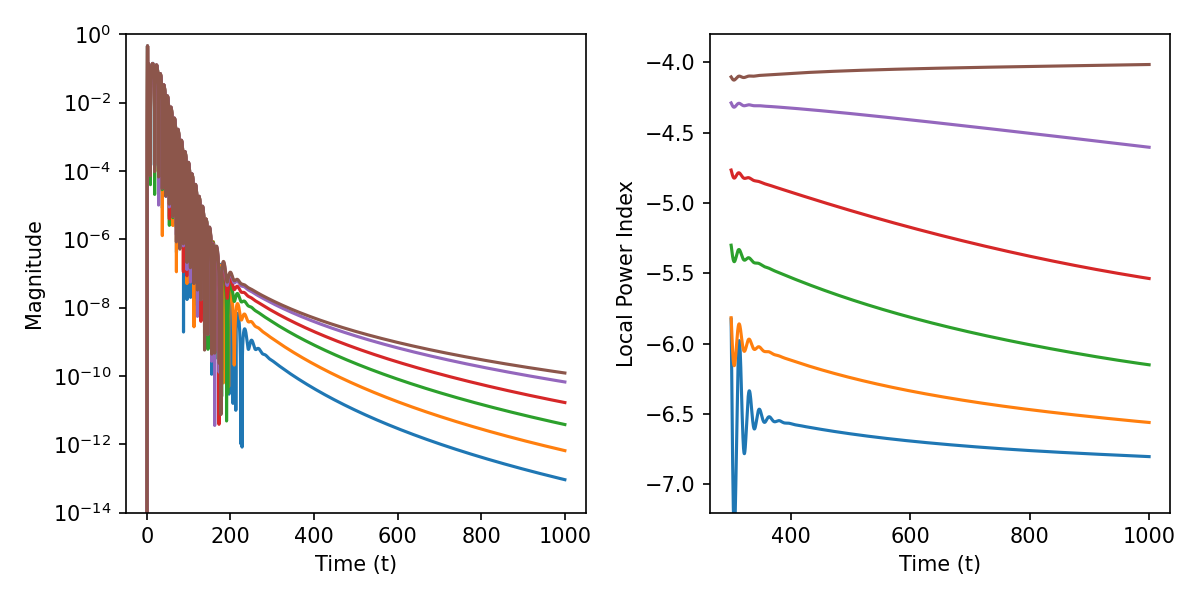
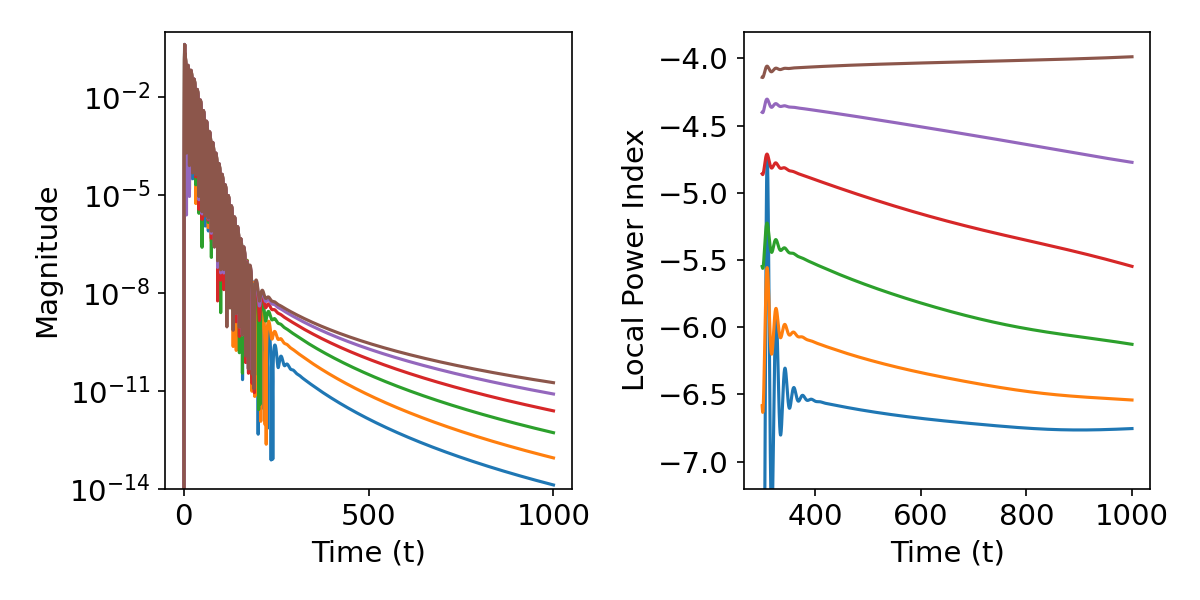
deploy: 43d7a47c012341e49fadcfed908c9c4864ebdf58

Changed region(s): [[0.0, 0.03, 0.9867, 0.96], [0.6167, 0.03, 0.9558, 0.06], [0.0617, 0.03, 0.0925, 0.09]]

diff --git a/post/2026/black-hole-gravitational-waves/index.html b/post/2026/black-hole-gravitational-waves/index.html
@@ -42,51 +42,48 @@ $$ G_\ast\ r^2 \sim (1-\rho^2) \ \mathrm{arctanh}^2\rho \to 0 \quad \text{as} \q
 The vanishing of $G_\ast r^2$ at infinity spoils regularity. Instead, we need an algebraic compactification. For example, something like $r_\ast = \tan\rho$ and $G_\ast=\cos^2\rho$, gives
 $$ G_\ast\ r^2 \sim \cos^2\rho \ \tan^2\rho = \sin^2\rho = 1 \quad \text{as} \quad \rho\to \frac{\pi}{2}. $$</p><p>There&rsquo;s a geometric reason for this restriction in compactification. As $r\to\infty$ the surface area of spheres grow quadratically. Therefore, only an algebraic compactification leads to a regular equation. When we use a compactification that&rsquo;s too fast, the potential blows up. When the compactification behaves algebraically, such as a trigonometric function, the limit is regular.</p><p>Having figured this out, why do we use $r_\ast$ in the first place? I mentioned that it gives us additional resolution near the horizon, but we&rsquo;re compactifying. We can adjust it to get the resolution we need without going through the tortoise coordinate. Let&rsquo;s get rid of it and compute the potential explicitly in terms of a simpler transformation $r(\rho)$. We just need to be careful about the Jacobian:
 $$ G_\ast = \frac{d\rho}{dr_\ast} = \frac{dr}{dr_\ast} \frac{d\rho}{dr} =: f G, $$
-where we introduced $G:=d\rho/dr$. If we now consider $H_\ast$ also as a function of $r$ and transform directly to $\rho$, we can fully avoid the tortoise coordinate.</p><p>There are clearly many choices for the compactification. A simple one that I like is this:
-$$ \frac{r}{2M} = \frac{\rho}{1-\rho} \quad \implies \quad G = \frac{(1-\rho)^2}{2M}. $$
-This maps the domain $r\in(2M,\infty)$ to $\rho\in(1/2,1)$. We can numerically include the boundary points because they are regular after the time transformation. The potential term becomes
-$$ \frac{V_\ell}{G_\ast} = \frac{V_\ell}{f G} = \frac{\ell(\ell+1)\rho - 3(1-\rho)}{2M \rho^3}. $$
-And the plot for $\ell=2, M=1$ is below.<figure><div class="d-flex justify-content-center"><div class=w-100><img alt="Rescaled gravitational potential" srcset="/post/2026/black-hole-gravitational-waves/rescaled_potential_hu467fbb98157e2d867fd9be90955c9b70_65054_f9a75d00d47fb81b7463cf3091eb0555.webp 400w,
-/post/2026/black-hole-gravitational-waves/rescaled_potential_hu467fbb98157e2d867fd9be90955c9b70_65054_97a155c2a008c4f6ca945a1ea3a04ade.webp 760w,
-/post/2026/black-hole-gravitational-waves/rescaled_potential_hu467fbb98157e2d867fd9be90955c9b70_65054_1200x1200_fit_q75_h2_lanczos_3.webp 1200w" src=/post/2026/black-hole-gravitational-waves/rescaled_potential_hu467fbb98157e2d867fd9be90955c9b70_65054_f9a75d00d47fb81b7463cf3091eb0555.webp width=760 height=507 loading=lazy data-zoomable></div></div></figure>This is <em>beautiful!</em> Note that the compactification cancels the redshift factor $f$ from the original RWZ potential. As a consequence, the peak of the <em>rescaled</em> potential is at the horizon, and it monotonically decreases from the strong field region towards infinity. We&rsquo;ll have no problem solving equations with such a simple term.</p><h3 id=time-transformation>Time transformation</h3><p>The final remaining ingredient for our system \eqref{3} is the boost $H_\ast$. Again, there are many choices. Arguably, the simplest choice that bridges the horizon and infinity is the <a href=https://hyperboloid.al/post/minimal-gauge/ target=_blank rel=noopener>minimal gauge</a>. You can derive it by just requiring the proper behavior at both boundaries and regularity at infinity. Consider the $(t,r_\ast)$ block of the Schwarzschild metric:
+where we introduced $G:=d\rho/dr$. If we now consider $H_\ast$ also as a function of $r$ and transform directly to $\rho$, we can fully avoid the tortoise coordinate.</p><p>There are many possible radial compactifications. In Schwarzschild there is one particularly appealing choice:
+$$ \rho := f(r)=1-\frac{2M}{r} \implies r(\rho) = \frac{2M}{1-\rho}. $$
+With this, the exterior domain $r\in(2M,\infty)$ is mapped to $\rho\in(0,1)$. The inner boundary at $\rho=0$ is the event horizon, $r=2M$, and the outer boundary at $\rho\to 1$ is infinity, $r\to\infty$. The Jacobian reads
+$$G=\frac{d\rho}{dr} = \frac{d}{dr}\Bigl(1-\frac{2M}{r}\Bigr)=\frac{2M}{r^2} =\frac{(1-\rho)^2}{2M},$$
+The rescaled potential term becomes
+$$ \frac{V_\ell}{G_\ast}=\frac{\ell(\ell+1)-3 (1-\rho)}{2M}. $$
+This is <em>beautiful!</em> The potential varies only linearly with $\rho$. And the plot for $\ell=2, M=1$ is below.<figure><div class="d-flex justify-content-center"><div class=w-100><img alt="Rescaled gravitational potential" srcset="/post/2026/black-hole-gravitational-waves/rescaled_potential_hu60b10f0091cdecf7d01d34f8b110536e_60165_a0b97f448efd743d55745d9679e1df00.webp 400w,
+/post/2026/black-hole-gravitational-waves/rescaled_potential_hu60b10f0091cdecf7d01d34f8b110536e_60165_e39ee295e2e410d429d21547e6c76b31.webp 760w,
+/post/2026/black-hole-gravitational-waves/rescaled_potential_hu60b10f0091cdecf7d01d34f8b110536e_60165_1200x1200_fit_q75_h2_lanczos_3.webp 1200w" src=/post/2026/black-hole-gravitational-waves/rescaled_potential_hu60b10f0091cdecf7d01d34f8b110536e_60165_a0b97f448efd743d55745d9679e1df00.webp width=760 height=507 loading=lazy data-zoomable></div></div></figure>Note that the compactification cancels the redshift factor $f$ from the original RWZ potential. And with this particular compactification, the <em>rescaled</em> potential is simply a linear function that barely varies over the entire domain. We&rsquo;ll have no problem solving equations with such a simple term.</p><h3 id=time-transformation>Time transformation</h3><p>The final remaining ingredient for our system \eqref{3} is the boost $H_\ast$. Again, there are many choices. Arguably, the simplest choice that bridges the horizon and infinity is the <a href=https://hyperboloid.al/post/minimal-gauge/ target=_blank rel=noopener>minimal gauge</a>. You can derive it by just requiring the proper behavior at both boundaries and regularity at infinity. Consider the $(t,r_\ast)$ block of the Schwarzschild metric:
 $$ ds^2_{t,r_\ast} = f \left(-dt^2 +dr_\ast^2\right). $$
 In- and outgoing null rays of this metric are $v=t+r_\ast$ and $u=t-r_\ast$. We want the coordinate $\tau$ to behave as $v$ toward the horizon, and as $u$ towards infinity. This implies $H_\ast\to 1$ as $r\to 2M$ and $H_\ast\to -1$ as $r\to\infty$. Further, we want conformal regularity at infinity for the transformed metric:
-$$ ds^2_{\tau,r_\ast} = f \left(-d\tau^2 + 2 H d\tau dr_\ast + (1-H_\ast^2) dr_\ast^2\right). $$
-Conformal regularity means a finite limit for $\Omega^2 ds^2$ when $\Omega=0$. Since $\Omega\sim r^{-1}$, we must satisfy as $r\to\infty$:
-$$ 1-H_\ast^2 = (1-H_\ast) (1 + H_\ast) \sim \frac{1}{r^2}, $$
+$$ ds^2_{\tau,r_\ast} = f \left(-d\tau^2 + 2 H_\ast d\tau dr_\ast + (1-H_\ast^2) dr_\ast^2\right). $$
+Conformal regularity means a finite limit for $\Omega^2 ds^2$ when $\Omega\sim 1/r \to 0$. With compactification, we have $dr_\ast \sim \Omega^{-2}d\rho$. Therefore, the regularity of the radial component under conformal compactification implies:
+$$ 1-H_\ast^2 = (1-H_\ast) (1 + H_\ast) \sim \Omega^2 \sim \frac{1}{r^2}, $$
 which means
 $$H_\ast = -1 + \frac{C}{r^2} + \mathcal{O}(r^{-3}), $$
 as $r\to\infty$. These conditions are true for all time transformations bridging between the future event horizon and future null infinity. By omitting the lower order terms above, and imposing the requirement $H_\ast(r=2M)=1$ gives us the boost function for the minimal gauge:
-$$ H_\ast = -1 + \frac{8M^2}{r^2}. $$
+$$ H_\ast = -1 + \frac{8M^2}{r^2} = -1 + 2(1-\rho)^2. $$
 In our compactifying coordinate $\rho$, the term that ensures the regularity of the compactified equation reads:
-$$ \frac{fG}{1-H_\ast^2} = \frac{\rho^3}{8M}.$$
+$$ \frac{fG}{1-H_\ast^2} = \frac{1}{8M(2-\rho)}.$$
 The minimal gauge leads to particularly simple expresions for the transformed system.</p><h3 id=the-numerical-solution>The numerical solution</h3><p>Let&rsquo;s wrap up. The choices for the compactification and time transformation above give us the following system
 \begin{equation}
 \begin{aligned}
 \partial_\tau u
-&= \frac{\rho^{3}}{8M}\bigl(H_\ast\psi + \pi\bigr),\\[4pt]
+&= \frac{1}{8M(2-\rho)}\bigl(H_\ast\psi + \pi\bigr),\\[4pt]
 \partial_\tau \psi
-&= \partial_\rho\left[\frac{\rho^{3}}{8M}\bigl(H_\ast\psi + \pi\bigr)\right],\\[4pt]
+&= \partial_\rho\left[\frac{1}{8M(2-\rho)}\bigl(H_\ast\psi + \pi\bigr)\right],\\[4pt]
 \partial_\tau \pi
-&= \partial_\rho\left[\frac{\rho^{3}}{8M}\bigl(\psi + H_\ast\pi\bigr)\right]
-+\frac{\ell(\ell+1)\rho - 3(1-\rho)}{2M\rho^{3}}u,
+&= \partial_\rho\left[\frac{1}{8M(2-\rho)}\bigl(\psi + H_\ast\pi\bigr)\right]
++\frac{\ell(\ell+1) - 3(1-\rho)}{2M}u,
 \end{aligned}
 \end{equation}
-with
-\begin{equation}
-H_\ast
-= -1+\frac{8M^2}{r(\rho)^2}
-= -1 + \frac{2}{\rho^2}(1-\rho)^2
-\end{equation}
-The system doesn&rsquo;t need any boundary data by construction. We simply apply one-sided stencils at the boundaries as before. All we need now is to prescribe some initial data (typically a localized Gaussian) and run the <a href=https://colab.research.google.com/drive/1ii9zyHE9MlaOW4e9K1IBGPSPQzxltO7c target=_blank rel=noopener>solver</a>. The simulation in Colab takes about 30 seconds for $1000M$. I also included a different gauge condition based on constant mean curvature foliations (CMC) that&rsquo;s almost 4 times faster<sup id=fnref:10><a href=#fn:10 class=footnote-ref role=doc-noteref>10</a></sup>. For this case, the boost function is only slightly more complicated
+with $H_\ast=-1+2(1-\rho)^2$.
+The system doesn&rsquo;t need any boundary data by construction. We simply apply one-sided stencils at the boundaries as before. All we need now is to prescribe some initial data (typically a localized Gaussian) and run the <a href=https://colab.research.google.com/drive/1ii9zyHE9MlaOW4e9K1IBGPSPQzxltO7c target=_blank rel=noopener>solver</a>. The simulation in Colab takes about 30 seconds for $1000M$. I also included a different gauge condition based on constant mean curvature foliations (CMC) that&rsquo;s twice as fast<sup id=fnref:10><a href=#fn:10 class=footnote-ref role=doc-noteref>10</a></sup>. For this case, the boost function is only slightly more complicated
 $$
 H^{CMC}_\ast = - \frac{J}{\sqrt{J^2+f r^4}}, \quad J = \frac{K r^3}{3}-C,
 $$
-with parameters $K$ and $C$.</p><p>Either case, you get a gravitational wave signal that looks like this at infinity:<figure><div class="d-flex justify-content-center"><div class=w-100><img alt="Time domain behavior of gravitational perturbations" srcset="/post/2026/black-hole-gravitational-waves/perturbations_hu8d661b410192f8a628c47b9560274f59_48036_1efdd7dafe8f0f2fdfb359a4407f1c02.webp 400w,
-/post/2026/black-hole-gravitational-waves/perturbations_hu8d661b410192f8a628c47b9560274f59_48036_67968320134623ccd232e1a63a3fa407.webp 760w,
-/post/2026/black-hole-gravitational-waves/perturbations_hu8d661b410192f8a628c47b9560274f59_48036_1200x1200_fit_q75_h2_lanczos_3.webp 1200w" src=/post/2026/black-hole-gravitational-waves/perturbations_hu8d661b410192f8a628c47b9560274f59_48036_1efdd7dafe8f0f2fdfb359a4407f1c02.webp width=760 height=570 loading=lazy data-zoomable></div></div></figure></p><p>Why infinity? Infinity is the correct model for the wave signal because we observe gravitational waves from black holes that are hundreds of millions of light years away. That&rsquo;s far. Very far. Mathematically, we model such distances by infinity, which we have wisely mapped to the outer boundary of our numerical domain. We&rsquo;ve done it for technical reasons (to avoid numerical reflections, artificial truncation, to improve efficiency, etc.) but there are physical reasons why we&rsquo;re interested in the data at infinity.</p><p>What you see in the signal above is a typical time evolution of a black-hole perturbation divided into three distinct phases: prompt response, exponential ringdown, and polynomial tail. This behavior has been studied for over half a century by now, yet we keep discovering new phenomena in the black-hole&rsquo;s response to perturbations.</p><p>The prompt response is a transient phase triggered by the specifics of the perturbation. We used to discard this part because it depends on the initial data, but in the last 5 years or so there has been more attention to this piece in order to get a handle of the complete picture (see, for example, <a href=https://arxiv.org/abs/2601.11706 target=_blank rel=noopener>2601.11706</a>).</p><p>The ringdown is when the spacetime oscillates at a frequency that only depends on intrinsic properties of the black hole&mdash;in our case the mass. These characteristic modes are called quasinormal modes (QNMs). Intuitively, the energy from the perturbation absorbed by the black hole and escapes to infinity. Some of the energy that goes toward the black hole gets trapped by the photon sphere. This part becomes exponentially weaker with each cycle (see the above YouTube video) which we measure as QNM ringing. The <a href=https://www.frontiersin.org/journals/physics/articles/10.3389/fphy.2024.1497601/full target=_blank rel=noopener>hyperboloidal approach to QNMs</a> has uncovered phenomena such as the <a href=https://journals.aps.org/prx/abstract/10.1103/PhysRevX.11.031003 target=_blank rel=noopener>pseudospectral instability</a> that are active areas of research.</p><p>The part that escapes to infinity scatters off of the background curvature on its way and that scattered piece decays polynomially. It&rsquo;s very weak, so it becomes only visible after the exponential ringdown becomes smaller than the polynomially decaying part. This part is also being studied currently, specifically the <a href=https://journals.aps.org/prl/abstract/10.1103/2brx-xnyr target=_blank rel=noopener>nonlinear tails</a>. The plot on the right below shows the decay rates for observers at different distances from the black hole. For the $\ell=2$ perturbation, the infinity signal decays as $t^{-4}$ whereas the finite distance signal decays as $t^{-7}$.</p><p><figure><div class="d-flex justify-content-center"><div class=w-100><img alt="Tail decay rates" srcset="/post/2026/black-hole-gravitational-waves/decay_rates_hu46ecaf269a046524936ab99253ea4119_102759_a327f61a2dc5702a9e3e1b1285a3fb69.webp 400w,
-/post/2026/black-hole-gravitational-waves/decay_rates_hu46ecaf269a046524936ab99253ea4119_102759_a0c0a194c4ba6e239a5f239a8ecf6315.webp 760w,
-/post/2026/black-hole-gravitational-waves/decay_rates_hu46ecaf269a046524936ab99253ea4119_102759_1200x1200_fit_q75_h2_lanczos_3.webp 1200w" src=/post/2026/black-hole-gravitational-waves/decay_rates_hu46ecaf269a046524936ab99253ea4119_102759_a327f61a2dc5702a9e3e1b1285a3fb69.webp width=760 height=380 loading=lazy data-zoomable></div></div></figure></p><h2 id=fading-out>Fading out</h2><p>We just banged on a spacetime with a black hole and now you can <a href=https://www.quantamagazine.org/physicists-create-a-wormhole-using-a-quantum-computer-20221130/ target=_blank rel=noopener>create your own</a> gravitational waves using a digital computer. Happy waving 👋</p><br><div class=footnotes role=doc-endnotes><hr><ol><li id=fn:1><p>Strictly speaking this is only true for linear perturbations. The full problem requires solving the Einstein equations, which is much harder, both technically and conceptually. In the full problem, there&rsquo;s no background on which waves propagate and the spacetime itself is dynamical. In this post, we&rsquo;re considering a simpler model for gravitational waves that is nevertheless still a topic of active research.&#160;<a href=#fnref:1 class=footnote-backref role=doc-backlink>&#8617;&#xfe0e;</a></p></li><li id=fn:2><p>The technical term is domain of outer communications.&#160;<a href=#fnref:2 class=footnote-backref role=doc-backlink>&#8617;&#xfe0e;</a></p></li><li id=fn:3><p>For the technically oriented, here&rsquo;s the definition. In an asymptotically flat spacetime with a future null infinity, $\mathscr{I}^{+}$, the black hole region, $\mathcal{B}$, is the complement of the causal past of future null infinity, $\mathcal{B}:=\mathcal{M}\setminus J^{-}(\mathscr{I}^+)$. Contrast this with the domain of outer communications, $\mathcal{D}:= J^{-}(\mathscr{I}^+) \cap J^{+}(\mathscr{I}^-)$. This is the region that can influence the future and be influenced by the past. If you don&rsquo;t jump into a black hole, you will spend your entire life in a small subset of the domain of outer communications.&#160;<a href=#fnref:3 class=footnote-backref role=doc-backlink>&#8617;&#xfe0e;</a></p></li><li id=fn:4><p>You can cross the event horizon without even realizing it.&#160;<a href=#fnref:4 class=footnote-backref role=doc-backlink>&#8617;&#xfe0e;</a></p></li><li id=fn:5><p>Due to Hawking radiation.&#160;<a href=#fnref:5 class=footnote-backref role=doc-backlink>&#8617;&#xfe0e;</a></p></li><li id=fn:6><p>Again, we are not &ldquo;perturbing the black hole&rdquo; because there is nothing to perturb where the black hole is. We are perturbing the black-hole spacetime and asking how these spacetime perturbations propagate given that there&rsquo;s a boundary in the spacetime waiting to swallow some of this perturbation.&#160;<a href=#fnref:6 class=footnote-backref role=doc-backlink>&#8617;&#xfe0e;</a></p></li><li id=fn:7><p>Such local perturbations approximate a delta function, so what you&rsquo;re seeing in the video is the <a href=https://en.wikipedia.org/wiki/Green%27s_function target=_blank rel=noopener>Green function</a> of the wave equation in a black hole spacetime. Chad Galley and I wrote a <a href=https://arxiv.org/abs/1206.1109 target=_blank rel=noopener>paper</a> on this Green function where we studied caustics that you can also see in your coffee mug.<figure><div class="d-flex justify-content-center"><div class=w-100><img alt="Caustic in a coffee mug" srcset="/post/2026/black-hole-gravitational-waves/featured_hu28445f7468d6dc134924454e8057b561_55570_acd34570a4cf0d77ef7e52cd62569178.webp 400w,
+with parameters $K$ and $C$.</p><p>Either case, you get a gravitational wave signal that looks like this at infinity:<figure><div class="d-flex justify-content-center"><div class=w-100><img alt="Time domain behavior of gravitational perturbations" srcset="/post/2026/black-hole-gravitational-waves/perturbations_hu32d46121cd3e380832f580e05114eadb_56904_b812826cb858e26963ba00d30e1ae60d.webp 400w,
+/post/2026/black-hole-gravitational-waves/perturbations_hu32d46121cd3e380832f580e05114eadb_56904_5b7d3d89df17ca7577933b3331e4724b.webp 760w,
+/post/2026/black-hole-gravitational-waves/perturbations_hu32d46121cd3e380832f580e05114eadb_56904_1200x1200_fit_q75_h2_lanczos_3.webp 1200w" src=/post/2026/black-hole-gravitational-waves/perturbations_hu32d46121cd3e380832f580e05114eadb_56904_b812826cb858e26963ba00d30e1ae60d.webp width=760 height=570 loading=lazy data-zoomable></div></div></figure></p><p>Why infinity? Infinity is the correct model for the wave signal because we observe gravitational waves from black holes that are hundreds of millions of light years away. That&rsquo;s far. Very far. Mathematically, we model such distances by infinity, which we have wisely mapped to the outer boundary of our numerical domain. We&rsquo;ve done it for technical reasons (to avoid numerical reflections, artificial truncation, to improve efficiency, etc.) but there are physical reasons why we&rsquo;re interested in the data at infinity.</p><p>What you see in the signal above is a typical time evolution of a black-hole perturbation divided into three distinct phases: prompt response, exponential ringdown, and polynomial tail. This behavior has been studied for over half a century by now, yet we keep discovering new phenomena in the black-hole&rsquo;s response to perturbations.</p><p>The prompt response is a transient phase triggered by the specifics of the perturbation. We used to discard this part because it depends on the initial data, but in the last 5 years or so there has been more attention to this piece in order to get a handle of the complete picture (see, for example, <a href=https://arxiv.org/abs/2601.11706 target=_blank rel=noopener>2601.11706</a>).</p><p>The ringdown is when the spacetime oscillates at a frequency that only depends on intrinsic properties of the black hole&mdash;in our case the mass. These characteristic modes are called quasinormal modes (QNMs). Intuitively, the energy from the perturbation absorbed by the black hole and escapes to infinity. Some of the energy that goes toward the black hole gets trapped by the photon sphere. This part becomes exponentially weaker with each cycle (see the above YouTube video) which we measure as QNM ringing. The <a href=https://www.frontiersin.org/journals/physics/articles/10.3389/fphy.2024.1497601/full target=_blank rel=noopener>hyperboloidal approach to QNMs</a> has uncovered phenomena such as the <a href=https://journals.aps.org/prx/abstract/10.1103/PhysRevX.11.031003 target=_blank rel=noopener>pseudospectral instability</a> that are active areas of research.</p><p>The part that escapes to infinity scatters off of the background curvature on its way and that scattered piece decays polynomially. It&rsquo;s very weak, so it becomes only visible after the exponential ringdown becomes smaller than the polynomially decaying part. This part is also being studied currently, specifically the <a href=https://journals.aps.org/prl/abstract/10.1103/2brx-xnyr target=_blank rel=noopener>nonlinear tails</a>. The plot on the right below shows the decay rates for observers at different distances from the black hole. For the $\ell=2$ perturbation, the infinity signal decays as $t^{-4}$ whereas the finite distance signal decays as $t^{-7}$.</p><p><figure><div class="d-flex justify-content-center"><div class=w-100><img alt="Tail decay rates" srcset="/post/2026/black-hole-gravitational-waves/decay_rates_hu62eb316102183d2e7d7b00f137a67674_105309_d070e993cb632d230df318fc7f8b0126.webp 400w,
+/post/2026/black-hole-gravitational-waves/decay_rates_hu62eb316102183d2e7d7b00f137a67674_105309_ad24c830d8ab4b5bc98a0183c5a66b82.webp 760w,
+/post/2026/black-hole-gravitational-waves/decay_rates_hu62eb316102183d2e7d7b00f137a67674_105309_1200x1200_fit_q75_h2_lanczos_3.webp 1200w" src=/post/2026/black-hole-gravitational-waves/decay_rates_hu62eb316102183d2e7d7b00f137a67674_105309_d070e993cb632d230df318fc7f8b0126.webp width=760 height=380 loading=lazy data-zoomable></div></div></figure></p><h2 id=fading-out>Fading out</h2><p>We just banged on a spacetime with a black hole and now you can <a href=https://www.quantamagazine.org/physicists-create-a-wormhole-using-a-quantum-computer-20221130/ target=_blank rel=noopener>create your own</a> gravitational waves using a digital computer. Happy waving 👋</p><br><div class=footnotes role=doc-endnotes><hr><ol><li id=fn:1><p>Strictly speaking this is only true for linear perturbations. The full problem requires solving the Einstein equations, which is much harder, both technically and conceptually. In the full problem, there&rsquo;s no background on which waves propagate and the spacetime itself is dynamical. In this post, we&rsquo;re considering a simpler model for gravitational waves that is nevertheless still a topic of active research.&#160;<a href=#fnref:1 class=footnote-backref role=doc-backlink>&#8617;&#xfe0e;</a></p></li><li id=fn:2><p>The technical term is domain of outer communications.&#160;<a href=#fnref:2 class=footnote-backref role=doc-backlink>&#8617;&#xfe0e;</a></p></li><li id=fn:3><p>For the technically oriented, here&rsquo;s the definition. In an asymptotically flat spacetime with a future null infinity, $\mathscr{I}^{+}$, the black hole region, $\mathcal{B}$, is the complement of the causal past of future null infinity, $\mathcal{B}:=\mathcal{M}\setminus J^{-}(\mathscr{I}^+)$. Contrast this with the domain of outer communications, $\mathcal{D}:= J^{-}(\mathscr{I}^+) \cap J^{+}(\mathscr{I}^-)$. This is the region that can influence the future and be influenced by the past. If you don&rsquo;t jump into a black hole, you will spend your entire life in a small subset of the domain of outer communications.&#160;<a href=#fnref:3 class=footnote-backref role=doc-backlink>&#8617;&#xfe0e;</a></p></li><li id=fn:4><p>You can cross the event horizon without even realizing it.&#160;<a href=#fnref:4 class=footnote-backref role=doc-backlink>&#8617;&#xfe0e;</a></p></li><li id=fn:5><p>Due to Hawking radiation.&#160;<a href=#fnref:5 class=footnote-backref role=doc-backlink>&#8617;&#xfe0e;</a></p></li><li id=fn:6><p>Again, we are not &ldquo;perturbing the black hole&rdquo; because there is nothing to perturb where the black hole is. We are perturbing the black-hole spacetime and asking how these spacetime perturbations propagate given that there&rsquo;s a boundary in the spacetime waiting to swallow some of this perturbation.&#160;<a href=#fnref:6 class=footnote-backref role=doc-backlink>&#8617;&#xfe0e;</a></p></li><li id=fn:7><p>Such local perturbations approximate a delta function, so what you&rsquo;re seeing in the video is the <a href=https://en.wikipedia.org/wiki/Green%27s_function target=_blank rel=noopener>Green function</a> of the wave equation in a black hole spacetime. Chad Galley and I wrote a <a href=https://arxiv.org/abs/1206.1109 target=_blank rel=noopener>paper</a> on this Green function where we studied caustics that you can also see in your coffee mug.<figure><div class="d-flex justify-content-center"><div class=w-100><img alt="Caustic in a coffee mug" srcset="/post/2026/black-hole-gravitational-waves/featured_hu28445f7468d6dc134924454e8057b561_55570_acd34570a4cf0d77ef7e52cd62569178.webp 400w,
 /post/2026/black-hole-gravitational-waves/featured_hu28445f7468d6dc134924454e8057b561_55570_d014c944287cf1a5edfb5f24cf545194.webp 760w,
 /post/2026/black-hole-gravitational-waves/featured_hu28445f7468d6dc134924454e8057b561_55570_1200x1200_fit_q75_h2_lanczos_2.webp 1200w" src=/post/2026/black-hole-gravitational-waves/featured_hu28445f7468d6dc134924454e8057b561_55570_acd34570a4cf0d77ef7e52cd62569178.webp width=760 height=505 loading=lazy data-zoomable></div></div></figure>&#160;<a href=#fnref:7 class=footnote-backref role=doc-backlink>&#8617;&#xfe0e;</a></p></li><li id=fn:8><p>Aside from fun, there are technical reasons why truncation is bad. First of all, truncation implies that you don&rsquo;t have access to the solution <em>at</em> the horizon or <em>at</em> the observer. The horizon and observer signals must be extrapolated from the truncated solution, which can get messy. In addition, truncated boundaries typically cause artificial reflections. And somewhat surprisingly, solving the problem on the infinite hyperboloidal domain is <em>much faster</em> than solving it on a large truncated domain and waiting for the signal to propagate.&#160;<a href=#fnref:8 class=footnote-backref role=doc-backlink>&#8617;&#xfe0e;</a></p></li><li id=fn:9><p>There are different potentials for different types of perturbations (scalar, electromagnetic, even, odd). These types of equations are called <a href=https://en.wikipedia.org/wiki/Regge%e2%80%93Wheeler%e2%80%93Zerilli_equations target=_blank rel=noopener>Regge-Wheeler-Zerilli</a> and they have a long history in relativity. Once you know how to solve this example, you&rsquo;ll have a powerful tool to study other interesting perturbative problems with minor modifications. The one we discuss in \eqref{2} describes axial perturbations and is the simplest gravitational potential.&#160;<a href=#fnref:9 class=footnote-backref role=doc-backlink>&#8617;&#xfe0e;</a></p></li><li id=fn:10><p>I performed the <a href=https://arxiv.org/abs/0911.2450 target=_blank rel=noopener>first hyperboloidal evolution of RWZ equations</a> using a CMC foliation in 2009. These coordinates go back to the 1980s, first studied in detail by <a href=https://pubs.aip.org/aip/jmp/article-abstract/21/12/2789/444574/K-surfaces-in-the-Schwarzschild-space-time-and-the target=_blank rel=noopener>Brill, Cavallo, and Isenberg</a>. It&rsquo;s remarkable that it took three decades for these coordinates to be applied properly to study black-hole perturbations.&#160;<a href=#fnref:10 class=footnote-backref role=doc-backlink>&#8617;&#xfe0e;</a></p></li></ol></div></div><div class=article-tags><a class="badge badge-light" href=/tag/hyperboloidal/>Hyperboloidal</a></div><div class=share-box><ul class=share><li><a href="https://twitter.com/intent/tweet?url=https%3A%2F%2Fanilzen.github.io%2Fpost%2F2026%2Fblack-hole-gravitational-waves%2F&amp;text=Banging+a+black+hole" target=_blank rel=noopener class=share-btn-twitter aria-label=twitter><i class="fab fa-twitter"></i></a></li><li><a href="https://www.facebook.com/sharer.php?u=https%3A%2F%2Fanilzen.github.io%2Fpost%2F2026%2Fblack-hole-gravitational-waves%2F&amp;t=Banging+a+black+hole" target=_blank rel=noopener class=share-btn-facebook aria-label=facebook><i class="fab fa-facebook"></i></a></li><li><a href="mailto:?subject=Banging%20a%20black%20hole&amp;body=https%3A%2F%2Fanilzen.github.io%2Fpost%2F2026%2Fblack-hole-gravitational-waves%2F" target=_blank rel=noopener class=share-btn-email aria-label=envelope><i class="fas fa-envelope"></i></a></li><li><a href="https://www.linkedin.com/shareArticle?url=https%3A%2F%2Fanilzen.github.io%2Fpost%2F2026%2Fblack-hole-gravitational-waves%2F&amp;title=Banging+a+black+hole" target=_blank rel=noopener class=share-btn-linkedin aria-label=linkedin-in><i class="fab fa-linkedin-in"></i></a></li><li><a href="whatsapp://send?text=Banging+a+black+hole%20https%3A%2F%2Fanilzen.github.io%2Fpost%2F2026%2Fblack-hole-gravitational-waves%2F" target=_blank rel=noopener class=share-btn-whatsapp aria-label=whatsapp><i class="fab fa-whatsapp"></i></a></li><li><a href="https://service.weibo.com/share/share.php?url=https%3A%2F%2Fanilzen.github.io%2Fpost%2F2026%2Fblack-hole-gravitational-waves%2F&amp;title=Banging+a+black+hole" target=_blank rel=noopener class=share-btn-weibo aria-label=weibo><i class="fab fa-weibo"></i></a></li></ul></div><div class="media author-card content-widget-hr"><a href=https://anilzen.github.io/><img class="avatar mr-3 avatar-circle" src=/authors/anil/avatar_hubdbe8f760004904350d82355aac46df7_167987_270x270_fill_q75_lanczos_center.jpg alt="Anıl Zenginoğlu"></a><div class=media-body><h5 class=card-title><a href=https://anilzen.github.io/>Anıl Zenginoğlu</a></h5><h6 class=card-subtitle>Assistant Research Scientist</h6><p class=card-text>Research scientist and administrator exploring spacetime infinity.</p><ul class=network-icon aria-hidden=true><li><a href=mailto:anil@umd.edu><i class="fas fa-envelope"></i></a></li><li><a href=https://www.linkedin.com/in/anilzen/ target=_blank rel=noopener><i class="fab fa-linkedin"></i></a></li><li><a href="https://scholar.google.com/citations?user=M8NnUIQAAAAJ&amp;hl=en" target=_blank rel=noopener><i class="ai ai-google-scholar"></i></a></li><li><a href=https://github.com/anilzen target=_blank rel=noopener><i class="fab fa-github"></i></a></li><li><a href=https://orcid.org/0000-0001-7896-6268 target=_blank rel=noopener><i class="fab fa-orcid"></i></a></li><li><a href=https://twitter.com/AnilZenginoglu target=_blank rel=noopener><i class="fab fa-twitter"></i></a></li><li><a href=https://mathstodon.xyz/@anilzen target=_blank rel=noopener><i class="fab fa-mastodon"></i></a></li></ul></div></div></div></article></div><div class=page-footer><div class=container><footer class=site-footer><p class="powered-by copyright-license-text">© 2026 Anıl Zenginoğlu. This work is licensed under <a href=https://creativecommons.org/licenses/by-nc-nd/4.0 rel="noopener noreferrer" target=_blank>CC BY NC ND 4.0</a></p><p class="powered-by footer-license-icons"><a href=https://creativecommons.org/licenses/by-nc-nd/4.0 rel="noopener noreferrer" target=_blank aria-label="Creative Commons"><i class="fab fa-creative-commons fa-2x" aria-hidden=true></i>
 <i class="fab fa-creative-commons-by fa-2x" aria-hidden=true></i>
